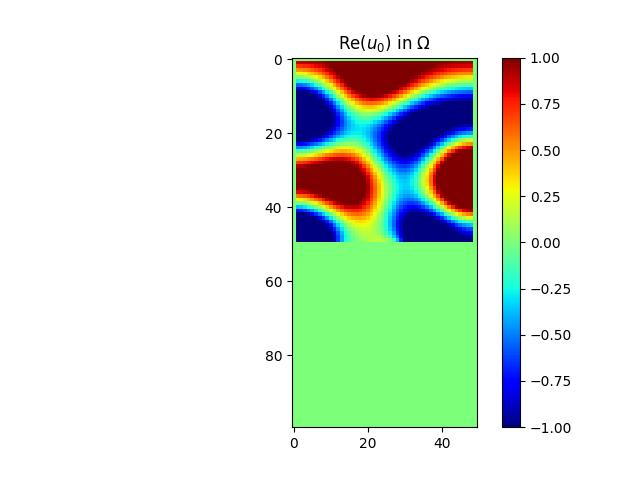
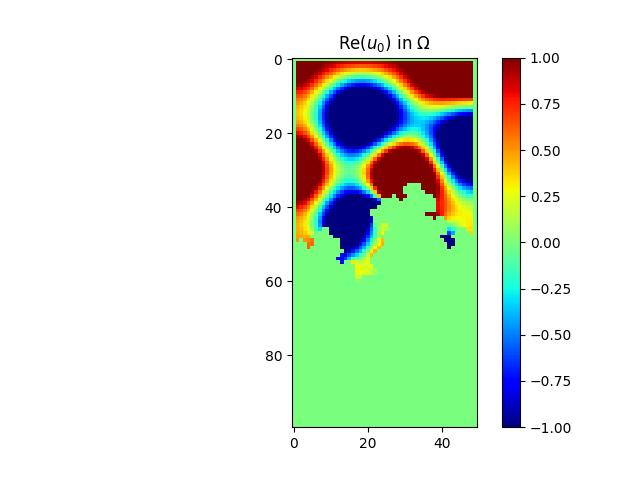
Energy distribution

Changed region(s): [[0.4375, 0.125, 0.75, 0.5938]]

diff --git a/demo_control_polycopie2024.py b/demo_control_polycopie2024.py
@@ -18,7 +18,7 @@ import postprocessing
 def your_optimization_procedure(domain_omega, spacestep, omega, f, f_dir, f_neu, f_rob,
                            beta_pde, alpha_pde, alpha_dir, beta_neu, beta_rob, alpha_rob,
                            Alpha, mu, chi, V_obj):
-    """This function return the optimized density.
+    """This function return the optimized density. Ok, l'algo part d'une forme de frontière, puis l'optimise.
 
     Parameter:
         cf solvehelmholtz's remarks
@@ -80,23 +80,24 @@ def your_compute_objective_function(domain_omega, u, spacestep):
 
     return energy
 
-
-if __name__ == '__main__':
-
+def launch_experience(wavenumber = 10.0, incident_wave_energy = 1.0, optimize = True, display = False) :
+    '''
+    The original code, just in a function, in order to be called from other files.
+    '''
     # ----------------------------------------------------------------------
     # -- Fell free to modify the function call in this cell.
     # ----------------------------------------------------------------------
     # -- set parameters of the geometry
     N = 50  # number of points along x-axis
     M = 2 * N  # number of points along y-axis
-    level = 0 # level of the fractal
+    level = 3 # level of the fractal
     spacestep = 1.0 / N  # mesh size
 
-    # -- set parameters of the partial differential equation
-    kx = -1.0
-    ky = -1.0
-    wavenumber = numpy.sqrt(kx**2 + ky**2)  # wavenumber
-    wavenumber = 10.0
+    # -- set parameters of the partial differential equation | pas utilisé pour l'instant (pour changer l'inclinaison de l'onde incidente), je le commente donc.
+    # kx = -1.0             
+    # ky = -1.0
+    # wavenumber = numpy.sqrt(kx**2 + ky**2)  # wavenumber
+
 
     # ----------------------------------------------------------------------
     # -- Do not modify this cell, these are the values that you will be assessed against.
@@ -116,7 +117,7 @@ if __name__ == '__main__':
     # -- define boundary conditions
     # planar wave defined on top
     f_dir[:, :] = 0.0
-    f_dir[0, 0:N] = 1.0
+    f_dir[0, 0:N] = incident_wave_energy
     # spherical wave defined on top
     #f_dir[:, :] = 0.0
     #f_dir[0, int(N/2)] = 10.0
@@ -130,10 +131,12 @@ if __name__ == '__main__':
 
     # -- define absorbing material
     Alpha = 10.0 - 10.0 * 1j
+    # Alpha = 0 - 0 * 1j
     # -- this is the function you have written during your project
     #import compute_alpha
     #Alpha = compute_alpha.compute_alpha(...)
     alpha_rob = Alpha * chi
+    
 
     # -- set parameters for optimization
     S = 0  # surface of the fractal
@@ -158,23 +161,30 @@ if __name__ == '__main__':
     # ----------------------------------------------------------------------
     # -- Fell free to modify the function call in this cell.
     # ----------------------------------------------------------------------
-    # -- compute optimization
-    energy = numpy.zeros((100+1, 1), dtype=numpy.float64)
-    # chi, energy, u, grad = your_optimization_procedure(...)
-    #chi, energy, u, grad = solutions.optimization_procedure(domain_omega, spacestep, wavenumber, f, f_dir, f_neu, f_rob,
-    #                    beta_pde, alpha_pde, alpha_dir, beta_neu, beta_rob, alpha_rob,
-    #                    Alpha, mu, chi, V_obj, mu1, V_0)
-    # --- en of optimization
+    if optimize:
+        # -- compute optimization
+        energy = numpy.zeros((100+1, 1), dtype=numpy.float64)
+        # chi, energy, u, grad = your_optimization_procedure(...)
+        #chi, energy, u, grad = solutions.optimization_procedure(domain_omega, spacestep, wavenumber, f, f_dir, f_neu, f_rob,
+        #                    beta_pde, alpha_pde, alpha_dir, beta_neu, beta_rob, alpha_rob,
+        #                    Alpha, mu, chi, V_obj, mu1, V_0)
+        # --- en of optimization
 
-    chin = chi.copy()
-    un = u.copy()
+        chin = chi.copy()
+        un = u.copy()
 
-    # -- plot chi, u, and energy
-    postprocessing.plot_domain(domain_omega)
-    postprocessing._plot_uncontroled_solution(u0, chi0)
-    postprocessing._plot_controled_solution(un, chin)
-    err = un - u0
-    postprocessing._plot_error(err)
-    postprocessing._plot_energy_history(energy)
+    if display:
+        # -- plot chi, u, and energy
+        postprocessing.plot_domain(domain_omega)
+        postprocessing._plot_uncontroled_solution(u0, chi0, alpha_rob)
+        postprocessing._plot_controled_solution(un, chin)
+        err = un - u0
+        postprocessing._plot_error(err)
+        postprocessing._plot_energy_history(energy)
 
-    print('End.')
+    energy = your_compute_objective_function(domain_omega, u0, spacestep)
+    return energy
+
+if __name__ == '__main__':
+    launch_experience()
+    

diff --git a/postprocessing.py b/postprocessing.py
@@ -11,7 +11,7 @@ import os
 import _env
 
 
-def myimshow(tab, **kwargs):
+def myimshow(tab, **kwargs): # routine. Stylé, un bon exemple de code factorisé
     """Customized plot."""
 
     if 'dpi' in kwargs and kwargs['dpi']:
@@ -67,12 +67,15 @@ def myimshow(tab, **kwargs):
     return
 
 
-def _plot_uncontroled_solution(u, chi):
+def _plot_uncontroled_solution(u, chi, alpha_rob):
 #def _plot_uncontroled_solution(x_plot, y_plot, x, y, u, chi):
 
     myimshow(numpy.real(u), title='$\operatorname{Re}(u_{0})$ in $\Omega$', colorbar='colorbar', cmap='jet', vmin=-1, vmax=1, filename='fig_u0_re.jpg')
     myimshow(numpy.imag(u), title='$\operatorname{Im}(u_{0})$ in $\Omega$', colorbar='colorbar', cmap='jet', vmin=-1, vmax=1, filename='fig_u0_im.jpg')
     myimshow(chi, title='$\chi_{0}$ in $\Omega$', colorbar='colorbar', cmap='jet', vmin=-1, vmax=1, filename='fig_chi0_re.jpg')
+    myimshow(numpy.real(alpha_rob), colorbar='colorbar', cmap='jet', vmin=-1, vmax=1, filename='fig_alpha_rob_re_0.jpg' )
+    # Ok, il semblerait que chi puisse aller de -1 à 1. 
+    
     # k_begin = 0
     # k_end = len(x) - 1
     # for k in range(k_begin, k_end):
@@ -159,3 +162,42 @@ def plot_domain(domain, title='Domain', filename='fig_domain.jpg'):
     filename = filename
     matplotlib.pyplot.savefig(filename)
     matplotlib.pyplot.close()
+    
+# def plot_alpha(domain, alpha_rob, title='Alpha', filename='fig_alpha.jpg'):
+#     """
+#     NODE_INTERIOR = -1  # nodes located in the interior
+#     NODE_COMPLEMENTARY = -2  # nodes located in the complement of (interior + frontier)
+#     NODE_DIRICHLET = 1  # nodes with dirichlet boundary condition
+#     NODE_NEUMANN = 2  # nodes with neumann boundary condition
+#     NODE_ROBIN = 3  # nodes with robin boundary condition
+#     """
+
+#     domain_array = numpy.array(domain)
+
+#     interior_nodes = numpy.argwhere(domain_array==_env.NODE_INTERIOR)
+#     complementary_nodes = numpy.argwhere(domain_array==_env.NODE_COMPLEMENTARY)
+#     dirichlet_nodes = numpy.argwhere(domain_array==_env.NODE_DIRICHLET)
+#     neumann_nodes = numpy.argwhere(domain_array==_env.NODE_NEUMANN)
+#     robin_nodes = numpy.argwhere(domain_array==_env.NODE_ROBIN)
+
+#     interior_col = [254,254,254] # white
+#     complementary_col = [254,254,254] # white
+#     dirichlet_col = [1,237,254] # light blue
+#     neumann_col = [254,17,0] # red
+#     robin_col = [110,254,0] # green
+
+#     domain_col = numpy.zeros((*domain_array.shape, 3), dtype=numpy.int64)
+
+#     domain_col[interior_nodes[:,0], interior_nodes[:,1], :] = interior_col
+#     domain_col[complementary_nodes[:,0], complementary_nodes[:,1], :] = complementary_col
+#     domain_col[dirichlet_nodes[:,0], dirichlet_nodes[:,1], :] = dirichlet_col
+#     domain_col[neumann_nodes[:,0], neumann_nodes[:,1], :] = neumann_col
+#     for node in robin_nodes:
+        
+#     domain_col[robin_nodes[:,0], robin_nodes[:,1], :] = robin_col
+
+#     matplotlib.pyplot.imshow(alpha_rob)
+#     matplotlib.pyplot.title(title)
+#     filename = filename
+#     matplotlib.pyplot.savefig(filename)
+#     matplotlib.pyplot.close()

diff --git a/energy_distribution.py b/energy_distribution.py
@@ -1,0 +1,55 @@
+# -*- coding: utf-8 -*-
+
+
+# Python packages
+import matplotlib.pyplot
+import numpy
+import os
+
+
+# MRG packages
+import postprocessing
+import demo_control_polycopie2024
+
+def get_sound_tested():
+    '''
+    
+    :param : un fichier texte de type spectre, comme dans sons_et_spectres
+    :return: numpy.array([[wavenumber, inciding_wave_power/energy], [], ...], type=float)
+    '''
+    pass
+
+def get_energies_frequency_plage(plage):
+    '''
+    Calculate the system energy, without optimization, for all the frequencies of the plage.
+    
+    :param plage: numpy.array([[wavenumber, inciding_wave_power/energy], [], ...], type=float)
+    :return energies: numpy.array([[wavenumber, system_energy], [], ...], type=float)
+    '''
+    energies = numpy.array([])
+    for i in range(len(plage)):
+        energy = demo_control_polycopie2024.launch_experience(wavenumber=plage[i][0], incident_wave_energy=plage[i][1], optimize=False)
+    
+    return energies
+
+def plot_energy_distribution(energies):
+    '''
+    Plot the energy against the wavenumber
+    
+    :param energies: numpy.array([[wavenumber, system_energy], [], ...], type=float)
+    '''
+    frequencies = [energies[k][1] for k in range(len(energies))]
+    energies_only = [energies[k][0] for k in range(len(energies))]
+
+    matplotlib.pyplot.plot(frequencies, energies_only, marker='o', linestyle='-', color='b')  
+    matplotlib.pyplot.xlabel("Frequencies")  
+    matplotlib.pyplot.ylabel("Energies")   
+    matplotlib.pyplot.title('Energy distribution') 
+    
+    matplotlib.pyplot.savefig("fig_energy_distribution.png", format='png', dpi=300)  # dpi=300 for high resolution
+    matplotlib.pyplot.close()
+    
+if __name__ == '__main__':
+    plage_test_1 = numpy.array([[10,1]])
+    energies = get_energies_frequency_plage(plage_test_1)
+    plot_energy_distribution()

diff --git a/compute_alpha.py b/compute_alpha.py
@@ -172,10 +172,10 @@ def compute_alpha(omega, material):
         temp = numpy.real(sum_e_k(omega)(alpha))
         return temp
 
-    temp_alpha = alpha(omega)
+    temp_alpha = alpha(omega)           # Qu'est la fct alpha ? Qu'est la var omega ?
     temp_error = error(temp_alpha, omega)
 
-    return temp_alpha, temp_error
+    return temp_alpha, temp_error       # Que sont temp_alpha et temp_error ?
 
 
 def run_compute_alpha(material):

diff --git a/preprocessing.py b/preprocessing.py
@@ -159,7 +159,7 @@ def create_fractal_nodes(nodes, n_iter):
             new_nodes = new_nodes + temp
         n += 1
         nodes = new_nodes
-
+        
     return nodes
 
 
